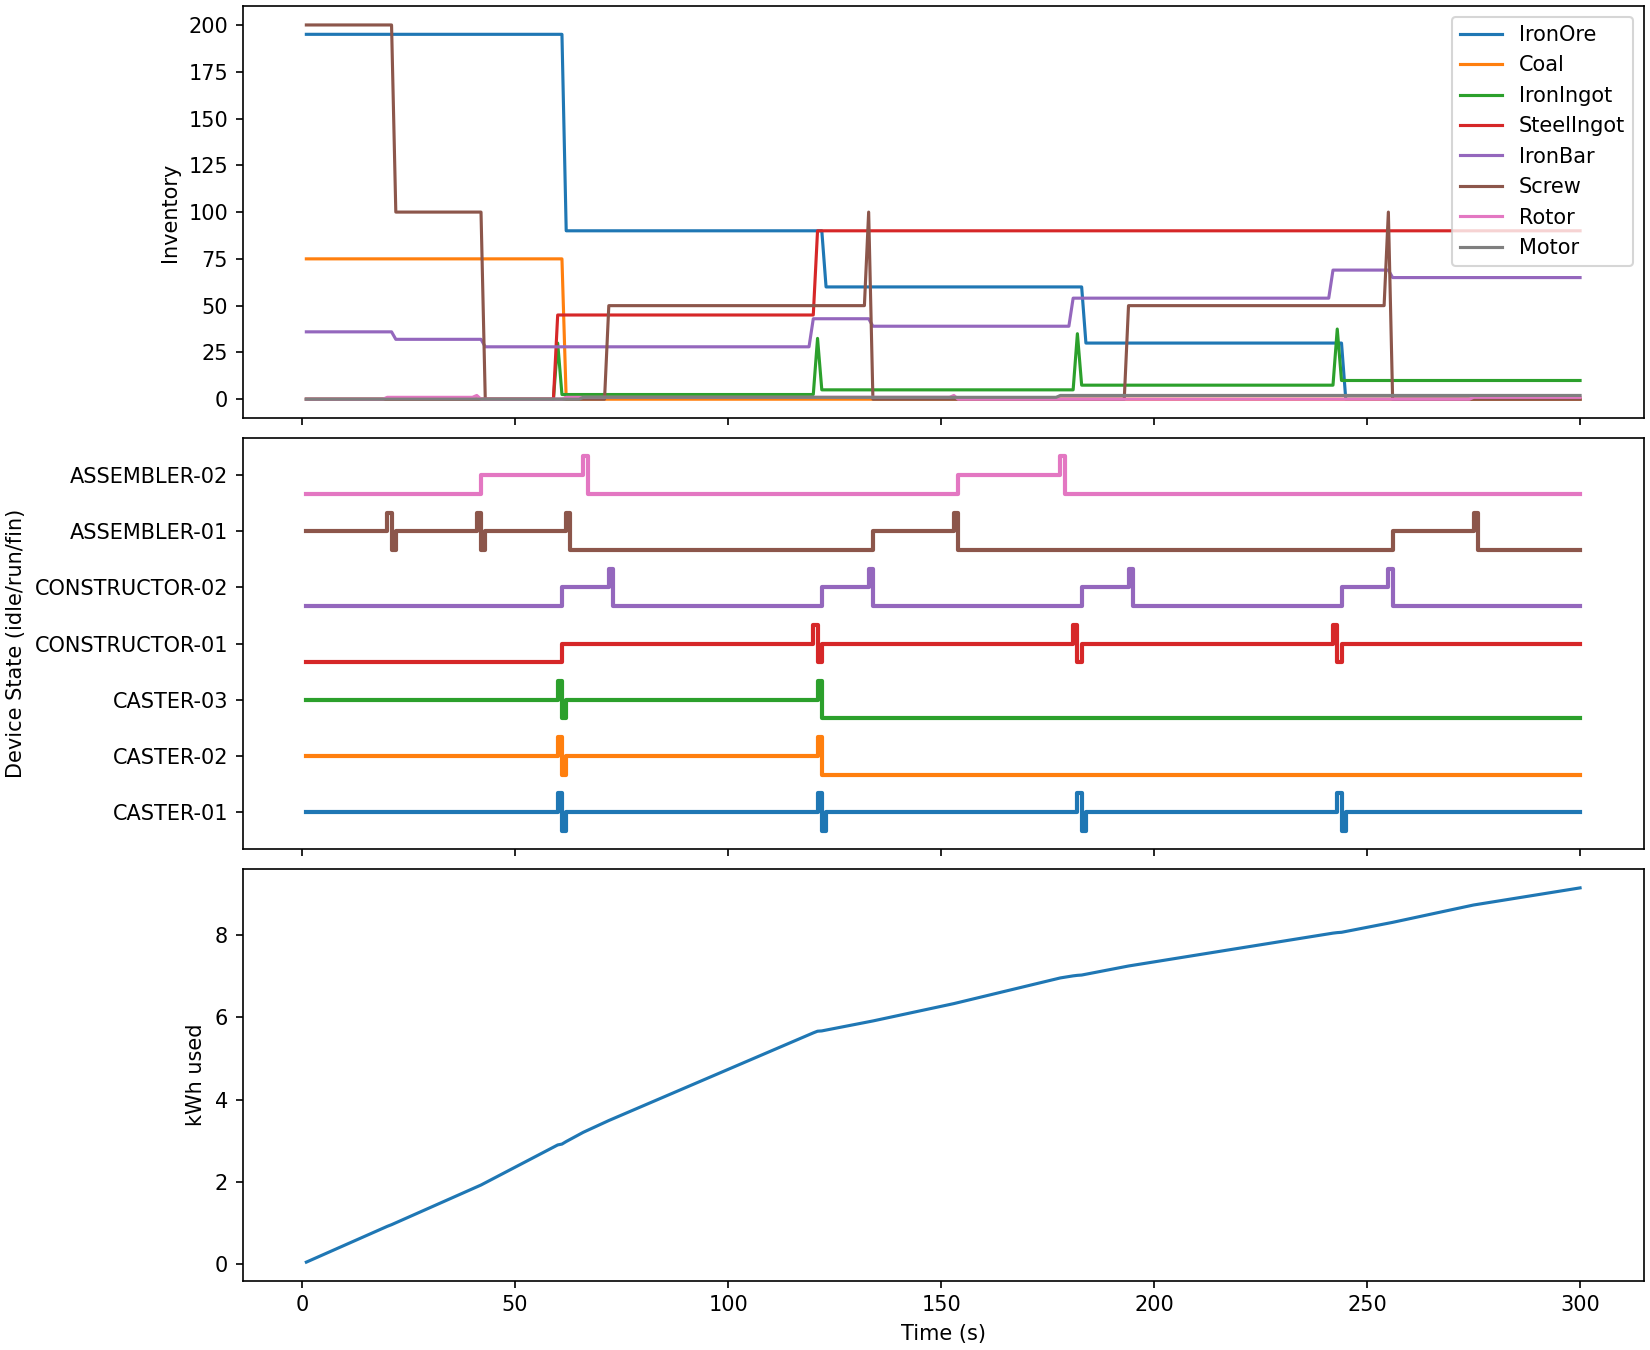
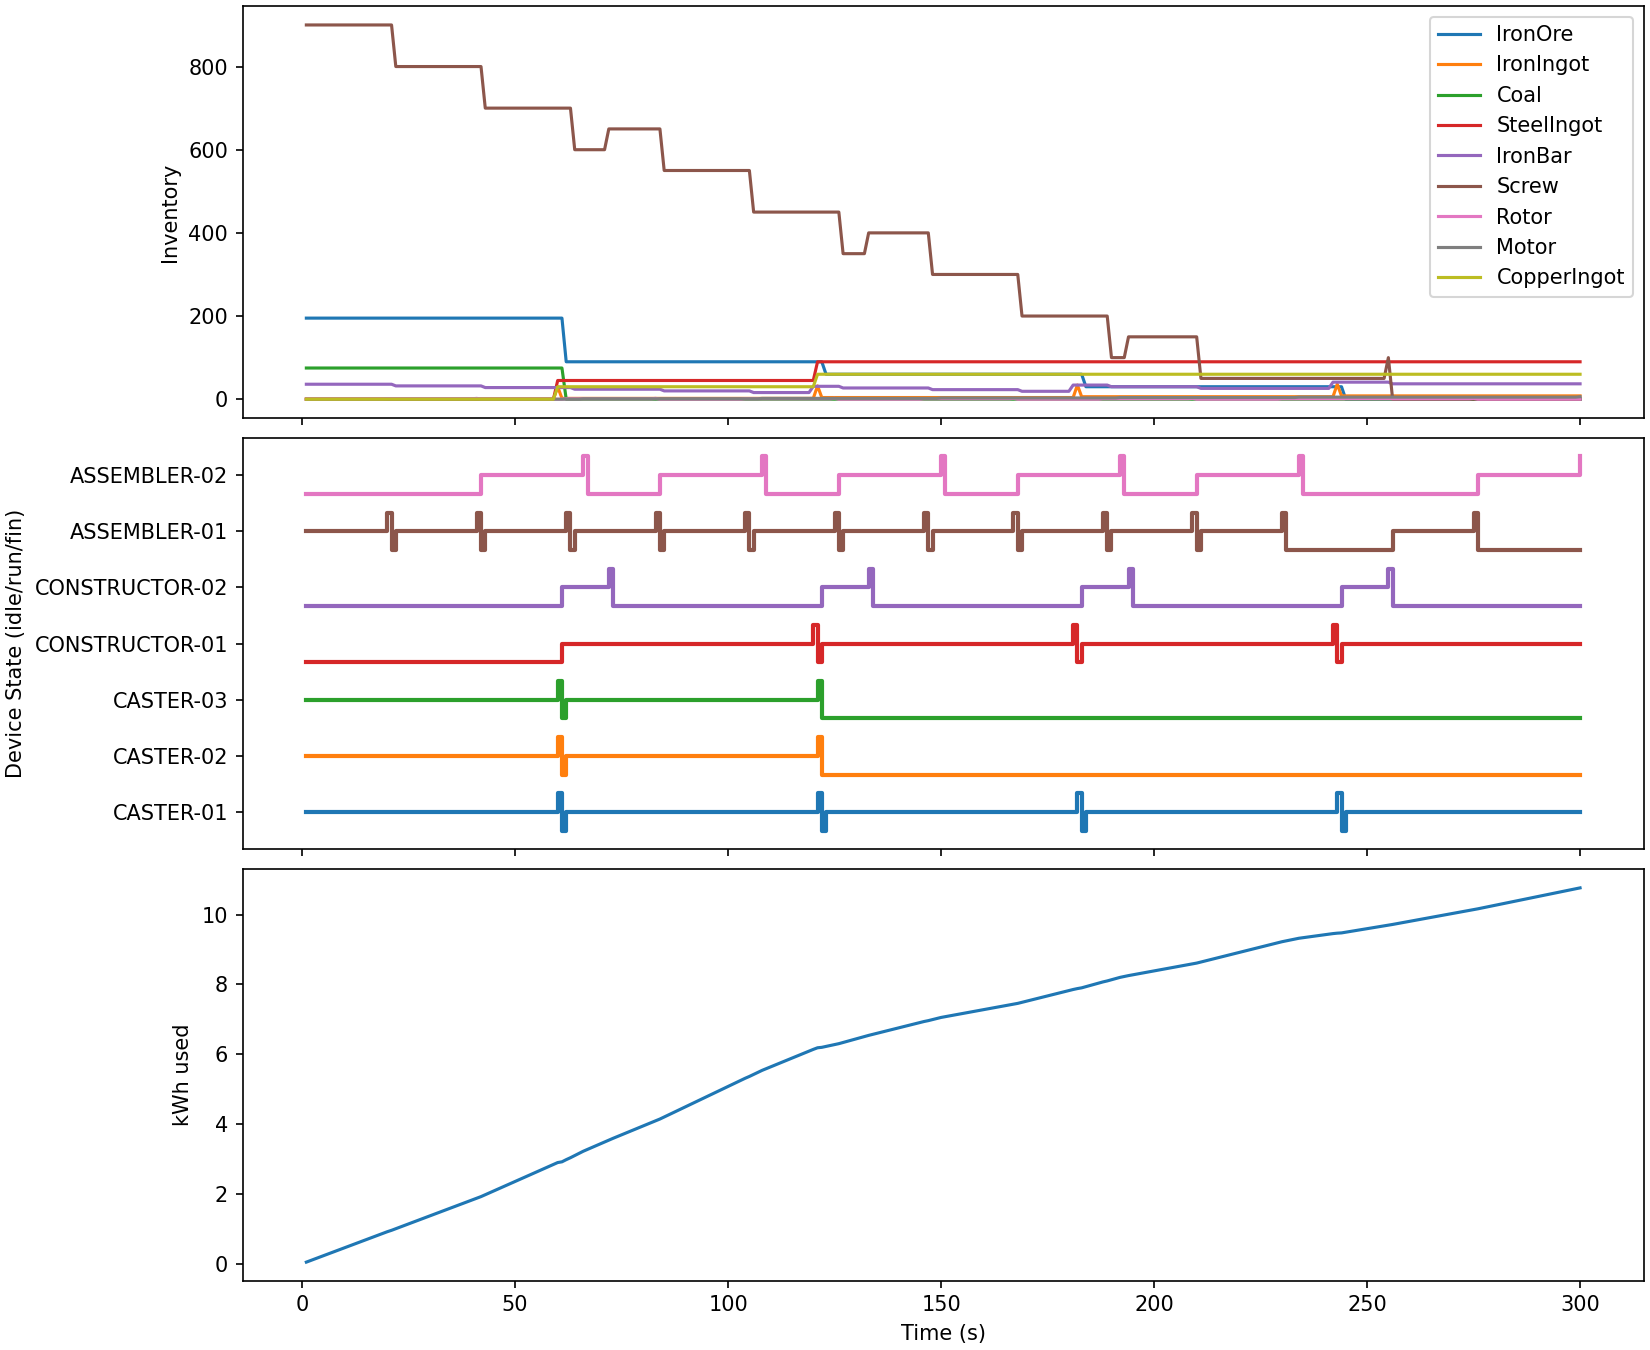
支持用material.yaml指定初始库存材料状态

diff --git a/pycode/factory_sim.py b/pycode/factory_sim.py
@@ -3,7 +3,7 @@ from __future__ import annotations
 from collections import defaultdict
 from typing import Literal
 
-from pycode.data_class import Device, Recipe
+from pycode.data_class import Device, Recipe, Material
 from pycode.dev_runtime import DevState
 from pycode.utils import (
     build_dict_of_dev_id_and_dev_runtime_obj,
@@ -16,8 +16,9 @@ class FactorySim:
             self,
             device_id_and_spec_dict,
             recipe_name_and_spec_dict,
+            init_stock_name_and_spec_dict,
             init_runtime_device_id_and_rcp_name_dict,
-            schedule_mode: Literal["greedy"],
+            schedule_mode: Literal["greedy", "manual"],
             dt=1,
     ):
         """
@@ -45,8 +46,13 @@ class FactorySim:
             rcp_name: Recipe(**rcp_dict)
             for rcp_name, rcp_dict in recipe_name_and_spec_dict.items()
         }
+        # 字典，材料名 -> 材料obj
+        self.runtime_stock_name_and_obj_dict = {
+            mtrl_name: Material(**mtrl_dict)
+            for mtrl_name, mtrl_dict in init_stock_name_and_spec_dict.items()
+        }
         # 字典，设备id -> Runtime
-        self.dev_id_and_runtime_dict = build_dict_of_dev_id_and_dev_runtime_obj(
+        self.dev_id_and_dev_runtime_dict = build_dict_of_dev_id_and_dev_runtime_obj(
             device_id_and_obj_dict=self.device_id_and_obj_dict,
             recipe_name_and_obj_dict=self.recipe_name_and_obj_dict,
             runtime_device_id_and_rcp_name_dict=init_runtime_device_id_and_rcp_name_dict,
@@ -56,7 +62,7 @@ class FactorySim:
             recipe_name_and_obj_dict=self.recipe_name_and_obj_dict,
         )
 
-        self.stock = defaultdict(float)
+        self.stock = defaultdict(float)  # TODO 用 self.runtime_stock_name_and_obj_dict 替代掉
         self.clock = 0
         self.energy_kwh_used = 0.0
 
@@ -64,18 +70,19 @@ class FactorySim:
         self.hist_time: list[int] = []
         self.hist_energy: list[float] = []
         self.hist_stock: dict[str, list[float]] = defaultdict(list)
-        self.hist_state: dict[str, list[str]] = {id_: [] for id_ in self.dev_id_and_runtime_dict}
+        self.hist_dev_state: dict[str, list[str]] = {id_: [] for id_ in self.dev_id_and_dev_runtime_dict}
 
         """甘特图"""
-        self.hist_recipe: dict[str, list[str | None]] = {id_: [] for id_ in self.dev_id_and_runtime_dict}
+        self.gantt_recipe: dict[str, list[str | None]] = {id_: [] for id_ in self.dev_id_and_dev_runtime_dict}
 
     def apply_actions(self, action_dict: dict[str, str | None]):
         """
         action_dict: {device_id: recipe_name 或 'OFF' 或 None}, None表示这台机器维持原先的调度不作调整, 'OFF'关机
         只有当设备处于 IDLE 且 action 指定了合法配方，才切换它的 recipe 属性。
         """
+        assert action_dict is not None
         for dev_id, act in action_dict.items():
-            rt = self.dev_id_and_runtime_dict.get(dev_id)
+            rt = self.dev_id_and_dev_runtime_dict.get(dev_id)
             if (
                     rt is None
                     or act is None
@@ -94,50 +101,61 @@ class FactorySim:
 
     # ----- external helpers ------------------------------------------------ --
     def add_stock(self, material: str, qty: int):
-        self.stock[material] += qty
+        self.runtime_stock_name_and_obj_dict[material].quantity += qty
 
     def do_schedule(self, action_dict: dict | None):
         """决定本次step的所有设备的状态"""
         if self.schedule_mode == "greedy":
-            for rt in self.dev_id_and_runtime_dict.values():
-                if rt.state is DevState.IDLE and rt.can_start(self.stock):
-                    rt.start_batch(self.stock)
+            for rt in self.dev_id_and_dev_runtime_dict.values():
+                if rt.state is DevState.IDLE and rt.can_start(self.runtime_stock_name_and_obj_dict):
+                    rt.start_batch(self.runtime_stock_name_and_obj_dict)
         else:
             self.apply_actions(action_dict)
 
     # ----- main loop -------------------------------------------------------- --
-    def run_for_this_step(self):
-        # 2) tick all devices，用 dt 推进
-        for rt in self.dev_id_and_runtime_dict.values():
+    def run_one_step_after_schedule(self):
+        # tick all devices，用 dt 推进
+        for rt in self.dev_id_and_dev_runtime_dict.values():
             if rt.state is DevState.RUNNING:
                 # 本步消耗 = 功率(kW)×(dt秒 ÷ 3600秒/时)
                 self.energy_kwh_used += rt.recipe.power_kw * (self.dt / 3600)
-            rt.tick(self.stock, self.dt)
-
+            rt.tick(self.runtime_stock_name_and_obj_dict, self.dt)
         # 全局时钟也推进 dt
         self.clock += self.dt
 
+        self.record_status_for_plot()
+
+    def record_status_for_plot(self):
         # 记录工厂在该时间步的状态，用于画图
         # ----------- 记录数据 -----------
         self.hist_time.append(self.clock)
         self.hist_energy.append(self.energy_kwh_used)
-        for mat in ("IronOre", "Coal", "IronIngot",
-                    "SteelIngot", "IronBar", "Screw",
-                    "Rotor", "Motor"):
-            self.hist_stock[mat].append(self.stock[mat])  # 默认为 0
-        for dev_id, dev_runtime in self.dev_id_and_runtime_dict.items():
-            self.hist_state[dev_id].append(dev_runtime.state.name)
+        # TODO material 不能在这里写死
+        for material in self.runtime_stock_name_and_obj_dict.keys():
+            self.hist_stock[material].append(self.runtime_stock_name_and_obj_dict[material].quantity)
+        for dev_id, dev_runtime in self.dev_id_and_dev_runtime_dict.items():
+            self.hist_dev_state[dev_id].append(dev_runtime.state.name)
             # 甘特图用，如果正在跑则记 recipe 名，否则记 None
-            self.hist_recipe[dev_id].append(dev_runtime.recipe.name if dev_runtime.state is DevState.RUNNING else None)
+            self.gantt_recipe[dev_id].append(
+                dev_runtime.recipe.name
+                if dev_runtime.state is DevState.RUNNING
+                else None
+            )
 
     # ----- reporting -------------------------------------------------------- --
     def snapshot(self) -> str:
-        sums = ", ".join(f"{k}:{v}" for k, v in self.stock.items() if v)
+        sums = ", ".join(
+            f"{k}:{material_obj.quantity}"
+            for k, material_obj in self.runtime_stock_name_and_obj_dict.items()
+            if material_obj.quantity
+        )
         devs = ", ".join(
-            f"{runtime_i.device.id}:{runtime_i.state.name}" for runtime_i in self.dev_id_and_runtime_dict.values())
+            f"{runtime_i.device.id}:{runtime_i.state.name}"
+            for runtime_i in self.dev_id_and_dev_runtime_dict.values()
+        )
         return (f"[t={self.clock:4}s] stock({sums}) | devs({devs}) | "
                 f"energy={self.energy_kwh_used:,.2f} kWh")
 
     def do_schedule_and_run_for_this_step(self, action_dict: dict | None):
         self.do_schedule(action_dict=action_dict)
-        self.run_for_this_step()
+        self.run_one_step_after_schedule()

diff --git a/pycode/dev_runtime.py b/pycode/dev_runtime.py
@@ -2,7 +2,7 @@ from dataclasses import dataclass
 from enum import Enum, auto
 from typing import Dict
 
-from pycode.data_class import Device, Recipe
+from pycode.data_class import Device, Recipe, Material
 
 
 class DevState(Enum):
@@ -18,24 +18,27 @@ class DevRuntime:
     state: DevState = DevState.IDLE
     t_left: int = 0  # seconds remaining for current batch
 
-    def can_start(self, stock: Dict[str, int]) -> bool:
+    def can_start(self, runtime_stock_name_and_obj_dict: Dict[str, Material]) -> bool:
         """Check if enough inputs exist to launch a batch."""
-        return all(stock[m] >= q for m, q in self.recipe.inputs.items())
+        for material, need_quantity in self.recipe.inputs.items():
+            if runtime_stock_name_and_obj_dict[material].quantity < need_quantity:
+                return False
+        return True
 
-    def start_batch(self, stock: Dict[str, int]):
+    def start_batch(self, runtime_stock_name_and_obj_dict: Dict[str, Material]):
         # 开始一次生产
         for m, q in self.recipe.inputs.items():
-            stock[m] -= q
+            runtime_stock_name_and_obj_dict[m].quantity -= q
         self.state = DevState.RUNNING
         self.t_left = self.recipe.cycle_time
 
-    def tick(self, stock: Dict[str, int], dt: int):
+    def tick(self, runtime_stock_name_and_obj_dict: Dict[str, Material], dt: int):
         """推进 dt 秒；若生产结束（t_left≤0），产出并切到 FINISHED。"""
         if self.state is DevState.RUNNING:
             self.t_left -= dt
             if self.t_left <= 0:
-                for m, q in self.recipe.outputs.items():
-                    stock[m] += q
+                for material, produce_quantity in self.recipe.outputs.items():
+                    runtime_stock_name_and_obj_dict[material].quantity += produce_quantity
                 self.state = DevState.FINISHED
         elif self.state is DevState.FINISHED:
             self.state = DevState.IDLE

diff --git a/pycode/main_entry.py b/pycode/main_entry.py
@@ -1,7 +1,7 @@
 from pycode.CFG import (
     DEVICE_ID_AND_SPEC_DICT,
     RECIPE_NAME_AND_SPEC_DICT,
-    INIT_RUNTIME_DEVICE_ID_AND_RECIPE_NAME_DICT
+    INIT_RUNTIME_DEVICE_ID_AND_RECIPE_NAME_DICT, INIT_STOCK_NAME_AND_SPEC_DICT
 )
 from pycode.factory_sim import FactorySim
 from pycode.make_my_plots import draw_device_topology, draw_dashboard, draw_gantt
@@ -17,15 +17,16 @@ def main_entry():
     factory_sim = FactorySim(
         device_id_and_spec_dict=DEVICE_ID_AND_SPEC_DICT,
         recipe_name_and_spec_dict=RECIPE_NAME_AND_SPEC_DICT,
+        init_stock_name_and_spec_dict=INIT_STOCK_NAME_AND_SPEC_DICT,
         init_runtime_device_id_and_rcp_name_dict=INIT_RUNTIME_DEVICE_ID_AND_RECIPE_NAME_DICT,
         schedule_mode="greedy",
         dt=1,
     )
     # preload some raw materials
-    factory_sim.add_stock("IronOre", 300)
-    factory_sim.add_stock("Coal", 150)
-    factory_sim.add_stock("IronBar", 40)
-    factory_sim.add_stock("Screw", 300)
+    # factory_sim.add_stock("IronOre", 300)
+    # factory_sim.add_stock("Coal", 150)
+    # factory_sim.add_stock("IronBar", 40)
+    # factory_sim.add_stock("Screw", 300)
 
     for _ in range(sim_time):
         factory_sim.do_schedule_and_run_for_this_step(action_dict=None)

diff --git a/pycode/make_my_plots.py b/pycode/make_my_plots.py
@@ -22,12 +22,12 @@ def draw_dashboard(sim) -> None:
     # ② 设备状态甘特图（简化版）
     state_code = {"IDLE": 0, "RUNNING": 1, "FINISHED": 2}
     y_offset = 0
-    for dev_id, series in sim.hist_state.items():
+    for dev_id, series in sim.hist_dev_state.items():
         y_vals = [state_code[s] + y_offset for s in series]
         axs[1].step(t, y_vals, where="post", linewidth=2)
         y_offset += 3
-    axs[1].set_yticks([1 + 3 * i for i in range(len(sim.hist_state))])
-    axs[1].set_yticklabels(sim.hist_state.keys())
+    axs[1].set_yticks([1 + 3 * i for i in range(len(sim.hist_dev_state))])
+    axs[1].set_yticklabels(sim.hist_dev_state.keys())
     axs[1].set_ylabel("Device State (idle/run/fin)")
 
     # ③ 累计耗电
@@ -111,7 +111,7 @@ def draw_gantt(sim, recipe_obj_list) -> None:
 
     # ---------- 只保留真正执行过作业的机器 ----------
     active_rows = [
-        (dev_id, seq) for dev_id, seq in sim.hist_recipe.items()
+        (dev_id, seq) for dev_id, seq in sim.gantt_recipe.items()
         if any(r is not None for r in seq)
     ]
     n_rows = len(active_rows)

diff --git a/pycode/factory_env.py b/pycode/factory_env.py
@@ -33,7 +33,7 @@ class FactoryEnv:
         # 1) 应用动作
         self.sim.apply_actions(action)
         # 2) 推进 dt 秒
-        self.sim.run_for_this_step()
+        self.sim.run_one_step_after_schedule()
         # 3) 观测、奖励、终止标志、额外信息
         obs = self._get_observation()
         reward = 0.0  # 先占位，后面再接成本／收益模型
@@ -46,7 +46,7 @@ class FactoryEnv:
             "time": self.sim.clock,
             "stock": dict(self.sim.stock),
             "device_state": {d: rt.state.name
-                             for d, rt in self.sim.dev_id_and_runtime_dict.items()},
+                             for d, rt in self.sim.dev_id_and_dev_runtime_dict.items()},
             "current_recipe": {d: rt.recipe.name
-                               for d, rt in self.sim.dev_id_and_runtime_dict.items()},
+                               for d, rt in self.sim.dev_id_and_dev_runtime_dict.items()},
         }

diff --git a/pycode/CFG.py b/pycode/CFG.py
@@ -10,14 +10,17 @@ INIT_STOCK_PATH = Path("../spec_yaml/init_stock.yaml")
 DEVICE_SPEC_LIST = load_yaml(DEVICE_SPEC_YAML_PATH)
 RECIPE_SPEC_LIST = load_yaml(RECIPE_SPEC_YAML_PATH)
 INIT_RUNTIME_DEVICE_ID_AND_RECIPE_NAME_DICT = load_yaml(INIT_BIND_OF_DEVICE_ID_AND_RECIPE_YAML_PATH)
-
+INIT_STOCK_LIST = load_yaml(INIT_STOCK_PATH)
 
 DEVICE_ID_AND_SPEC_DICT = build_index_dict_by_id_from_list(
     DEVICE_SPEC_LIST,
     "id",
 )
-
 RECIPE_NAME_AND_SPEC_DICT = build_index_dict_by_id_from_list(
     RECIPE_SPEC_LIST,
+    "name",
+)
+INIT_STOCK_NAME_AND_SPEC_DICT = build_index_dict_by_id_from_list(
+    INIT_STOCK_LIST,
     "name",
 )

diff --git a/pycode/data_class.py b/pycode/data_class.py
@@ -20,3 +20,14 @@ class Recipe:
     power_kw: float
     inputs: Dict[str, float]  # material → quantity / batch
     outputs: Dict[str, float]
+
+
+@dataclass
+class Material:
+    name: str
+    quantity: float
+    price_buy: float
+    price_sell: float
+    storage_cost_per_time_unit: float
+    can_buy: bool
+    can_sell: bool
